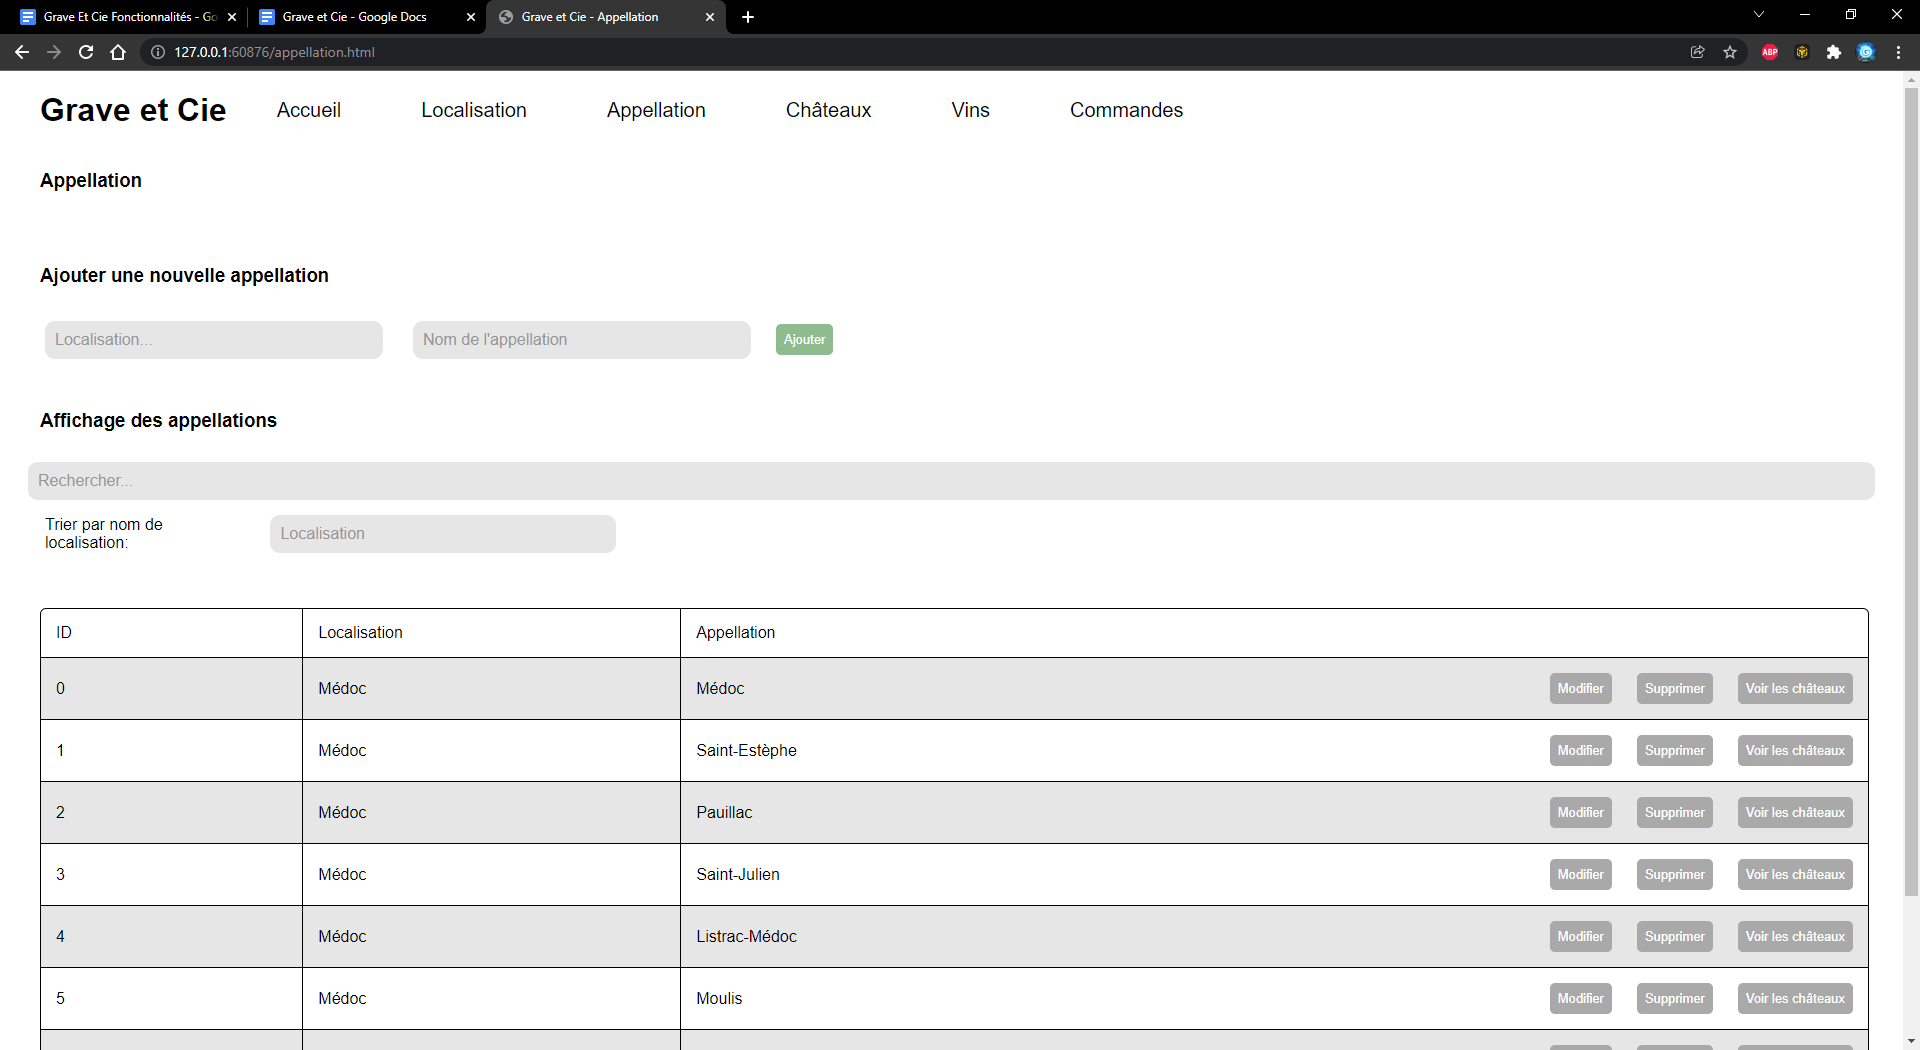
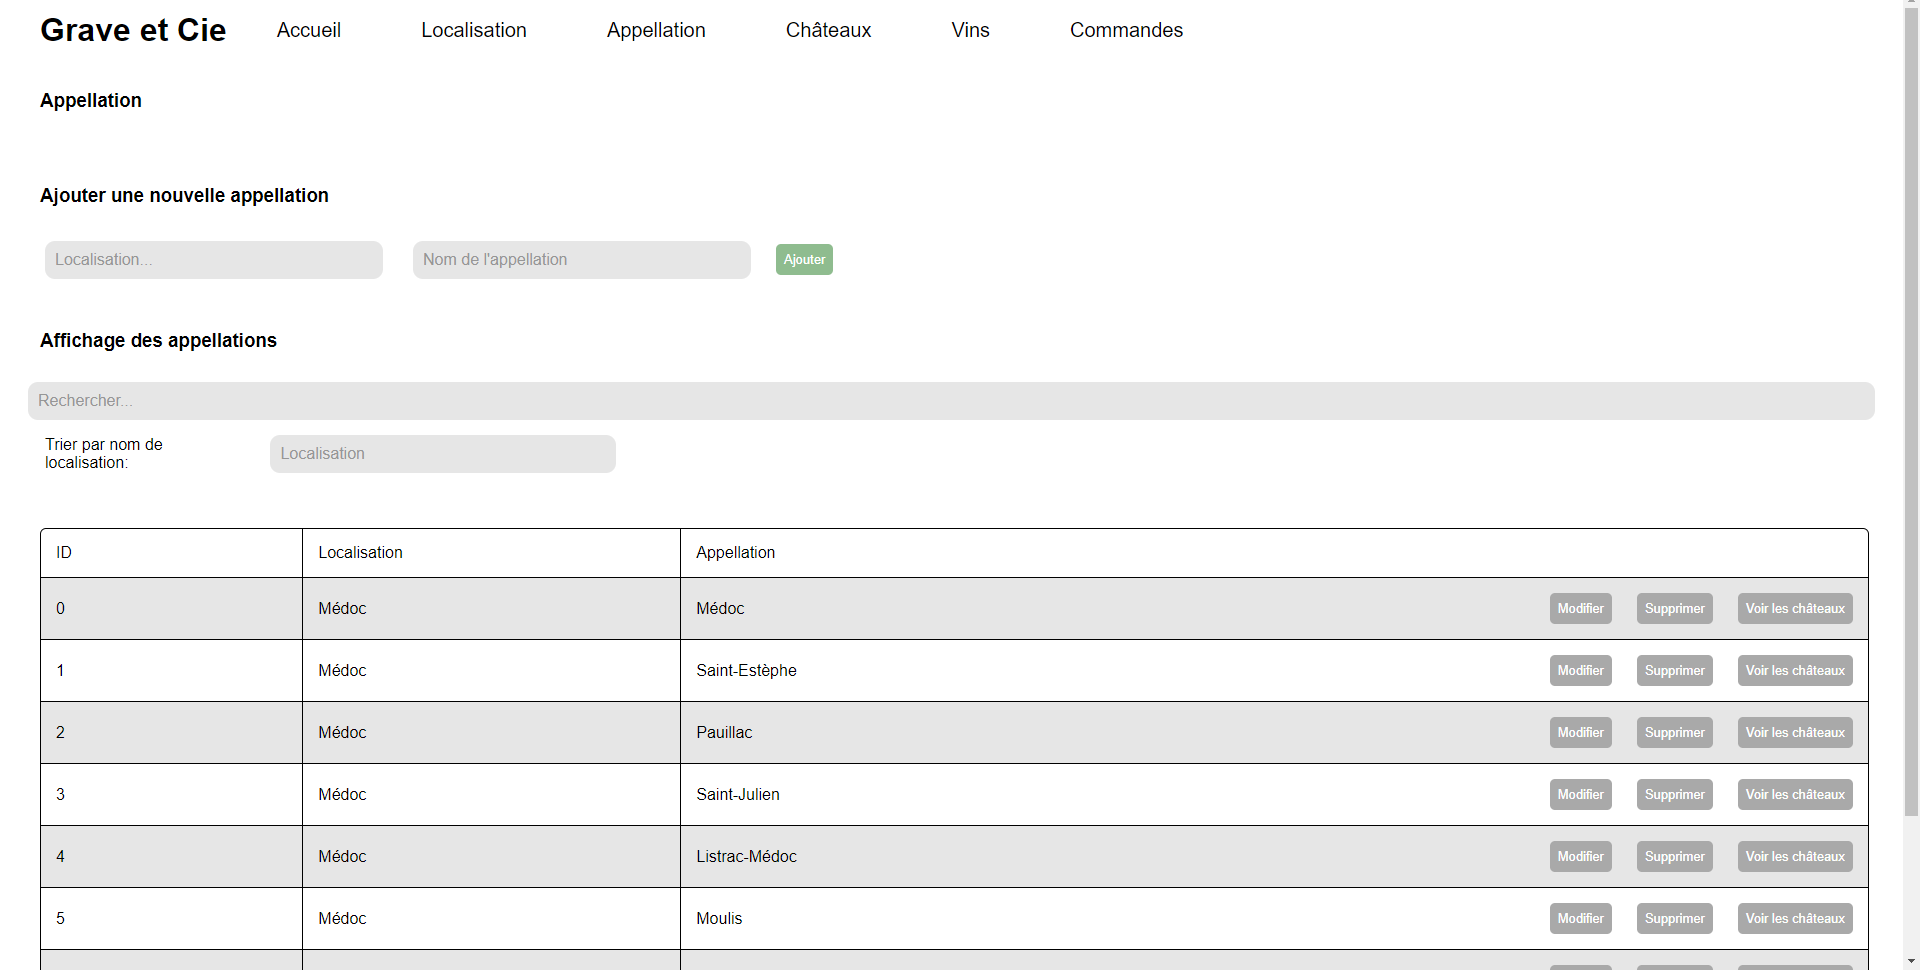
test taille

diff --git a/style.css b/style.css
@@ -111,6 +111,8 @@ a {
     border-radius: 10px;
     margin: 5px;
     margin-left: 20px;
+    height: 100%;
+    width: 50%;
 }
 
 
@@ -210,19 +212,24 @@ button:hover {
 
 
 
-@media screen and (max-width:320px) {
-    .button {
+@media screen and (max-width:820px) {
+    header{
         display: flex;
-        flex-direction: column;
-        width: 100%;
+        flex-direction: column-reverse;
+        
+    }
+    .menu{
+        display: inline-block;
+        flex: 1;
         align-items: center;
-        margin-bottom: 10px;
     }
-    .button>button {
-        width: 250px;
-        position: relative;
-        left: 0px;
+    .nom {
+        margin-left: 10px;
+        width: 1000px;
+        display: flex;
+        flex: 1;
     }
+    
    
     footer {
         display: flex;

diff --git a/experiences.html b/experiences.html
@@ -151,6 +151,16 @@
         li:hover .description, li:hover .description2 {
             display: block;
         }
+        @media screen and (max-width:820px) {
+            ol {
+            position: relative;
+            display: block;
+          
+            margin: 97px;
+            height: 100px;
+            width: 1100px;
+        }
+        }
     </style>
 
 </head>
